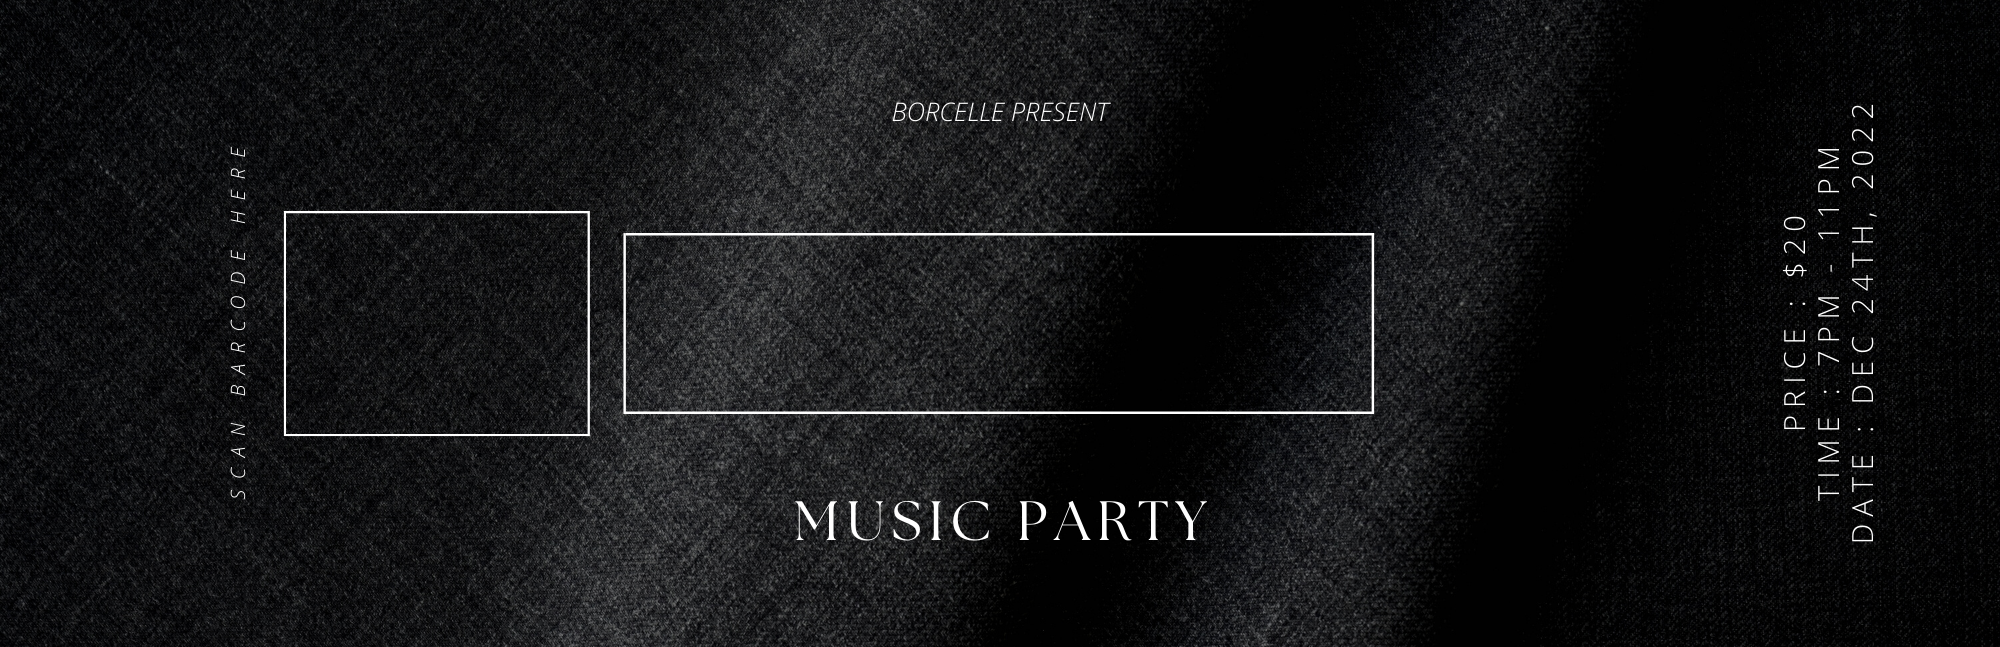
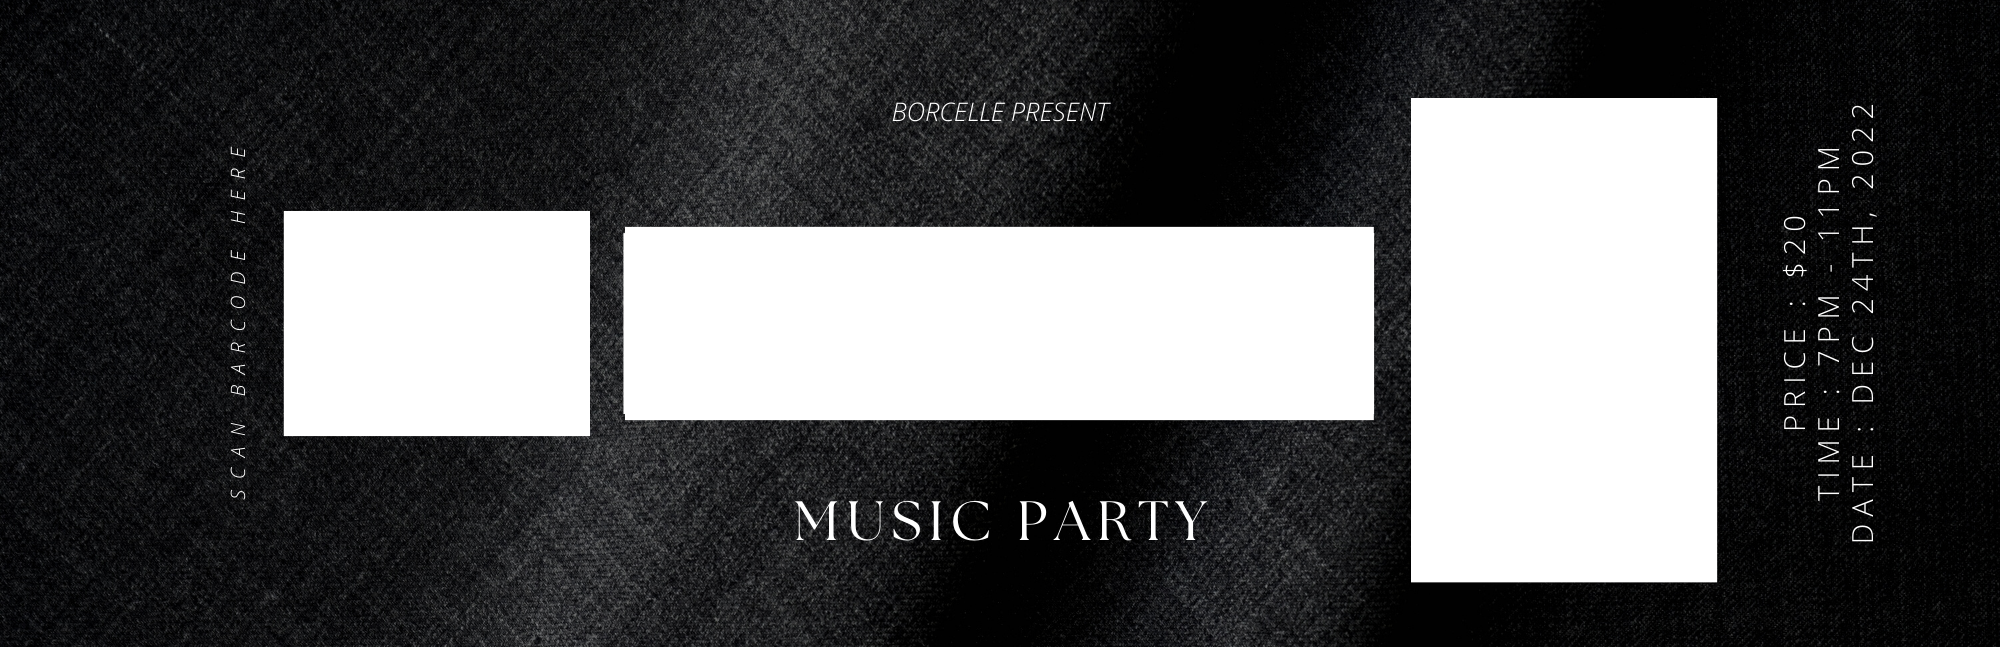
chore:stage 1  generation barcode

diff --git a/src/ticket/ticket.service.ts b/src/ticket/ticket.service.ts
@@ -1,8 +1,8 @@
 import { Inject, Injectable } from '@nestjs/common';
-import sharp from 'sharp';
+import * as sharp from 'sharp';
 import * as path from 'path';
-import bwipjs from 'bwip-js';
-import TextToSvg from 'text-to-svg';
+import * as bwipjs from 'bwip-js';
+import * as TextToSvg from 'text-to-svg';
 import { ConfigService } from '@nestjs/config';
 
 @Injectable()
@@ -11,16 +11,17 @@ export class TicketService {
     @Inject(ConfigService) private readonly configService: ConfigService,
   ) {}
   getFilePath(fileName: string): string {
-    const basePath = this.configService.get('base_path');
+    const basePath = this.configService.get('base_url');
+    console.log(basePath, 'yesh');
     return path.join(basePath, fileName);
   }
   generateSVG(text: string) {
     const textToSVG = TextToSvg.loadSync();
     try {
       const svg = textToSVG.getSVG(text, {
-        fontSixe: 110,
+        fontSize: 110,
         anchor: 'top',
-        atrributes: { fill: 'black' },
+        atrributes: { fill: 'white', stroke: 'black' },
       });
       return Buffer.from(svg);
     } catch (err) {
@@ -32,6 +33,7 @@ export class TicketService {
       bcid: 'qrcode',
       text,
       scale: 5,
+      textcolor: 'ffffff',
     });
     return qrcodeBuffer;
   }
@@ -49,11 +51,15 @@ export class TicketService {
   }
 
   async createTicket(customerName, ticketId, outputPath) {
-    const ticketemplatePath = this.getFilePath(
-      './imageFile/Black and White Minimalist Ticket Music Party (1).png',
-    );
+    // const ticketemplatePath = this.getFilePath(
+    //   '/imageFile/Black and White Minimalist Ticket Music Party (1).png',
+    // );
 
-    const ticket = sharp(ticketemplatePath);
+    // console.log(ticketemplatePath);
+
+    const ticket = sharp(
+      './src/ticket/imageFile/Black and White Minimalist Ticket Music Party (1).png',
+    );
 
     try {
       const barcodeImageBuffer = await this.generateBarcode(ticketId);
@@ -77,8 +83,8 @@ export class TicketService {
       // Params to overlay SVG onto the template
       const svgOverlay = {
         input: customerNameImageBuffer,
-        top: 791,
-        left: 508,
+        top: 256,
+        left: 637,
       };
 
       await ticket

diff --git a/src/app.module.ts b/src/app.module.ts
@@ -4,13 +4,13 @@ import { AppService } from './app.service';
 import { UsersModule } from './users/users.module';
 import { DatabaseModule } from './database/database.module';
 import { AuthModule } from './auth/auth.module';
-import { TicketService } from './ticket/ticket.service';
-import { TicketController } from './ticket/ticket.controller';
+// import { TicketService } from './ticket/ticket.service';
+// import { TicketController } from './ticket/ticket.controller';
 import { TicketModule } from './ticket/ticket.module';
 
 @Module({
   imports: [UsersModule, DatabaseModule, AuthModule, TicketModule],
-  controllers: [AppController, TicketController],
-  providers: [AppService, TicketService],
+  controllers: [AppController],
+  providers: [AppService],
 })
 export class AppModule {}

diff --git a/src/auth/auth.guard.ts b/src/auth/auth.guard.ts
@@ -5,7 +5,7 @@ import {
   UnauthorizedException,
 } from '@nestjs/common';
 import { JwtService } from '@nestjs/jwt';
-import { jwtConstants } from './constants';
+import { StrategyConstants } from './jwt-constants';
 import { Request } from 'express';
 
 @Injectable()
@@ -20,7 +20,7 @@ export class AuthGuard implements CanActivate {
     }
     try {
       const payload = await this.jwtService.verifyAsync(token, {
-        secret: jwtConstants.secret,
+        secret: StrategyConstants.secret_access,
       });
       request['user'] = payload;
     } catch {

diff --git a/src/ticket/ticket.controller.ts b/src/ticket/ticket.controller.ts
@@ -6,11 +6,11 @@ export class TicketController {
   constructor(private readonly ticketService: TicketService) {}
   @Get('/generate')
   generateTicket() {
-    const name = 'Likita-benjamin';
+    const name = 'Elisha';
     return this.ticketService.createTicket(
       name,
       'ticket-id-likita',
-      `./output/${name}-ticket.png`,
+      `./src/ticket/output/${name}-ticket.png`,
     );
   }
 }

diff --git a/src/ticket/ticket.module.ts b/src/ticket/ticket.module.ts
@@ -1,8 +1,10 @@
 import { Module } from '@nestjs/common';
 import { TicketService } from './ticket.service';
 import { TicketController } from './ticket.controller';
+import { ConfigModule } from '@nestjs/config';
 
 @Module({
+  imports: [ConfigModule],
   controllers: [TicketController],
   providers: [TicketService],
 })
